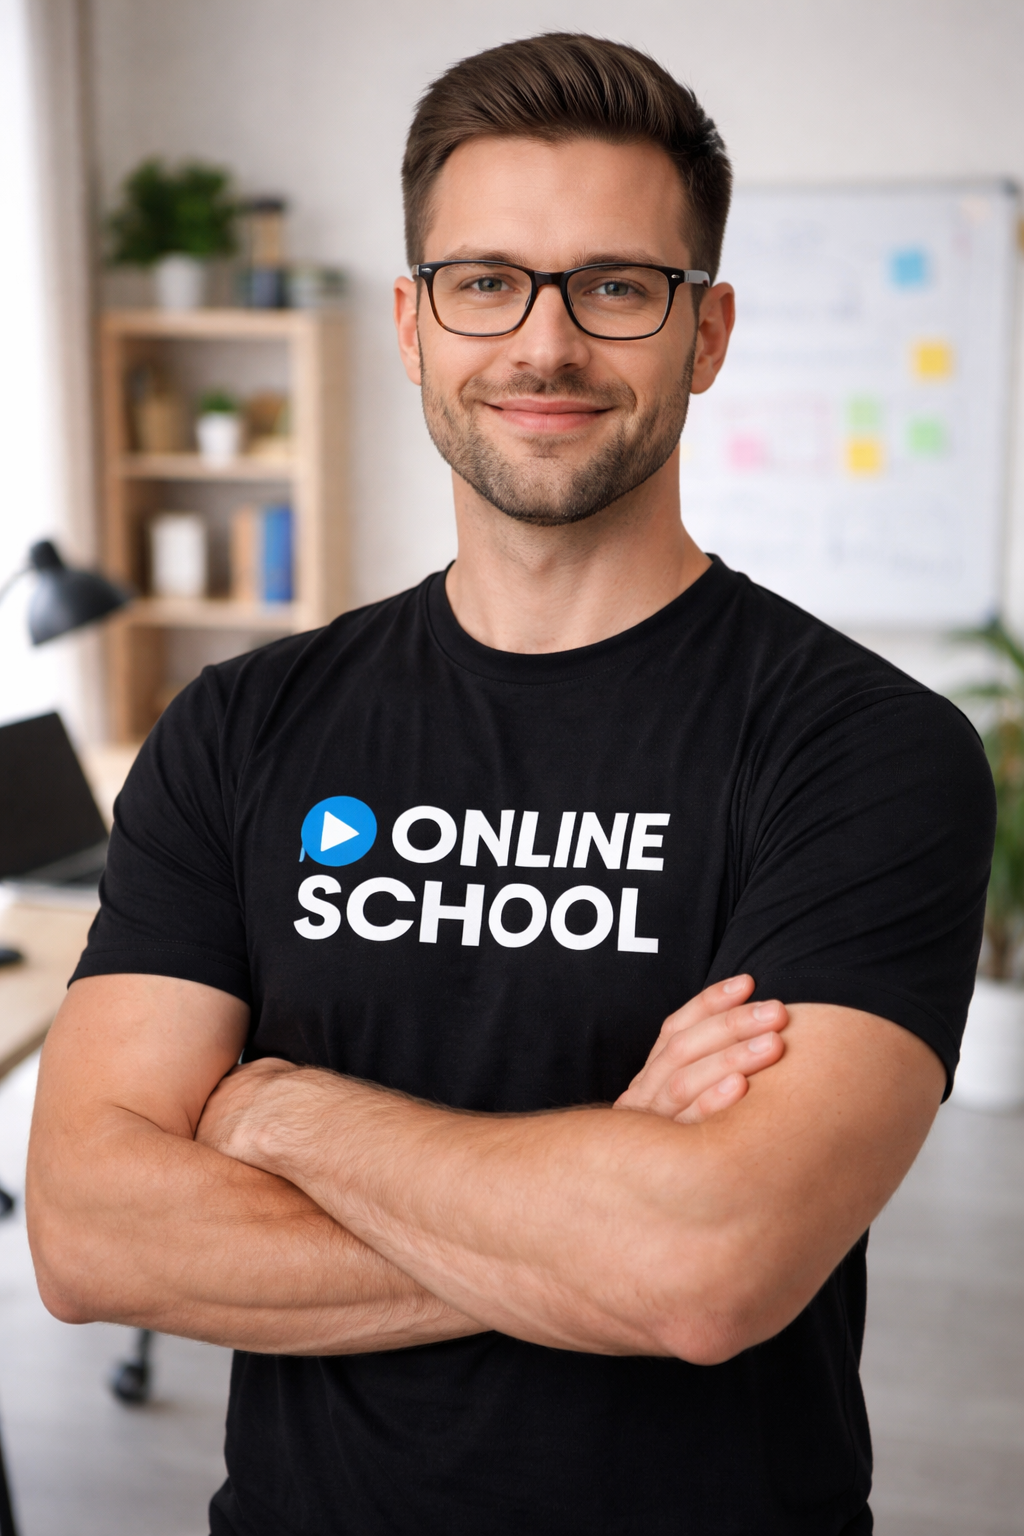
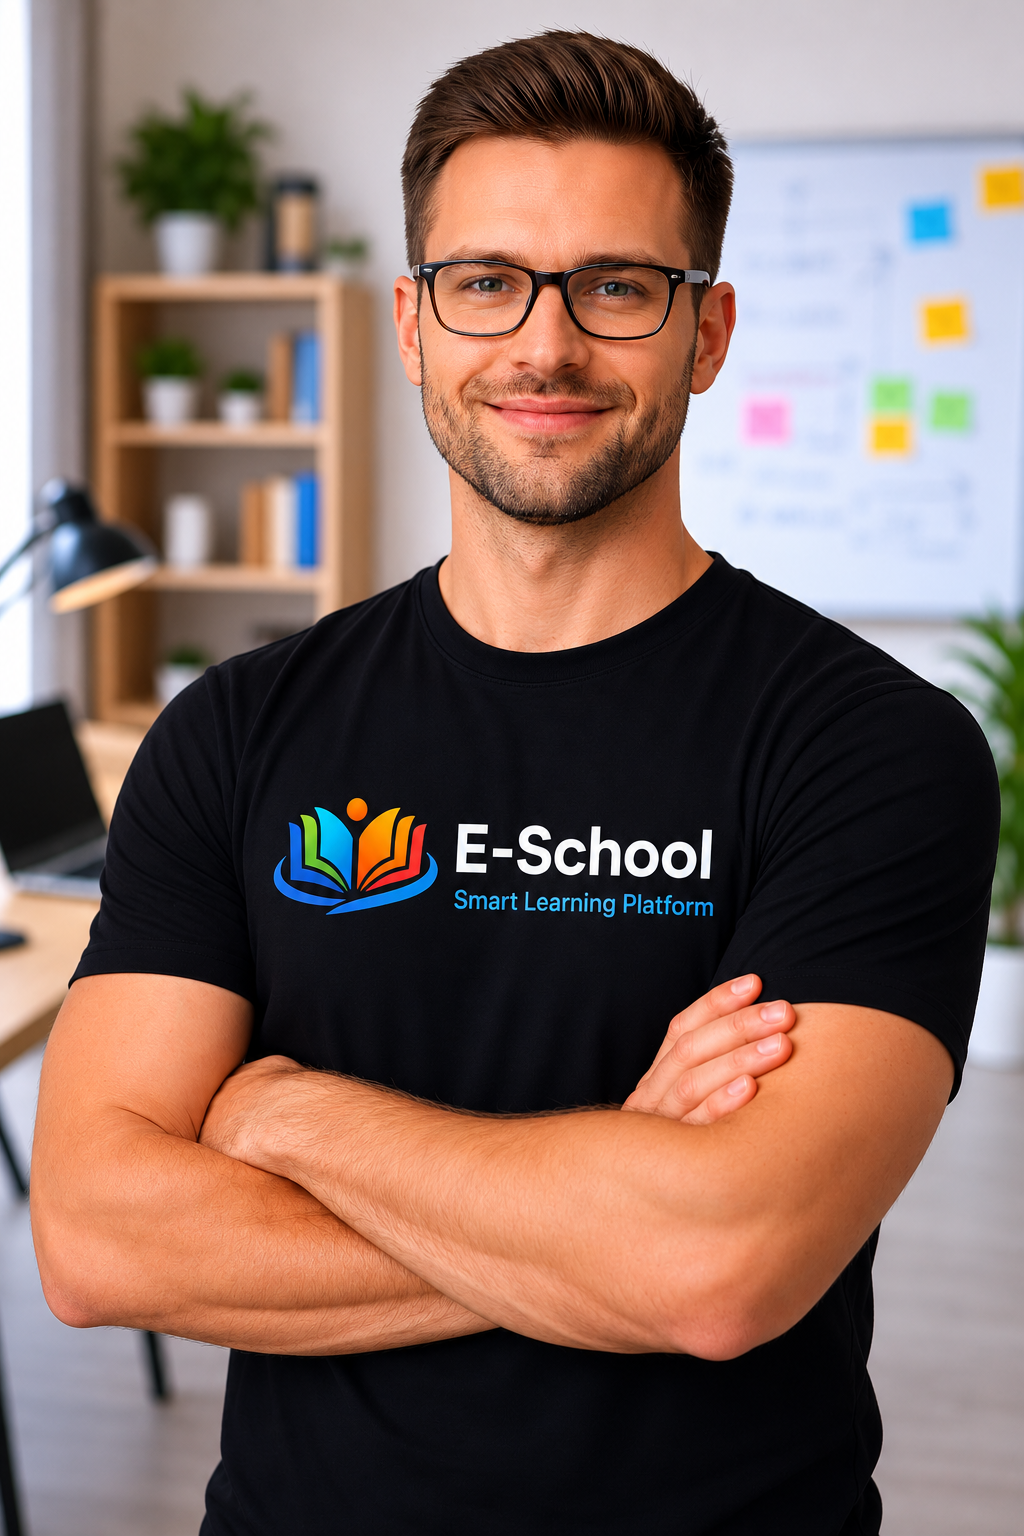
update directory

diff --git a/frontend/src/pages/SettingsPage.tsx b/frontend/src/pages/SettingsPage.tsx
@@ -1,4 +1,4 @@
-import { useState } from 'react';
+import { useState, useRef } from 'react';
 import { useNavigate } from 'react-router-dom';
 import { motion, AnimatePresence } from 'framer-motion';
 import { User, Lock, Bell, Moon, LogOut, ArrowLeft } from 'lucide-react';
@@ -22,26 +22,48 @@ export function SettingsPage() {
     confirmPassword: '',
   });
   const [message, setMessage] = useState<{ type: 'success' | 'error'; text: string } | null>(null);
+  const [avatarFile, setAvatarFile] = useState<File | null>(null);
+  const [avatarPreview, setAvatarPreview] = useState<string | null>(null);
+  const fileInputRef = useRef<HTMLInputElement>(null);
 
   const handleInputChange = (e: React.ChangeEvent<HTMLInputElement>) => {
     const { name, value } = e.target;
     setFormData((prev) => ({ ...prev, [name]: value }));
   };
 
+  const handleFileChange = (e: React.ChangeEvent<HTMLInputElement>) => {
+    if (e.target.files && e.target.files[0]) {
+      const file = e.target.files[0];
+      setAvatarFile(file);
+      const reader = new FileReader();
+      reader.onloadend = () => {
+        setAvatarPreview(reader.result as string);
+      };
+      reader.readAsDataURL(file);
+    }
+  };
+
   const handleUpdateProfile = async (e: React.FormEvent) => {
     e.preventDefault();
-    if (!formData.name) {
-      setMessage({ type: 'error', text: 'Name is required.' });
-      return;
+    
+    const formDataToSubmit = new FormData();
+    formDataToSubmit.append('name', formData.name);
+    formDataToSubmit.append('email', formData.email);
+    if (avatarFile) {
+      formDataToSubmit.append('avatar', avatarFile);
     }
-    const result = await updateUser({ name: formData.name, email: formData.email });
+
+    const result = await updateUser(formDataToSubmit);
     if (result.success) {
       setMessage({ type: 'success', text: 'Profile updated successfully!' });
+      setAvatarPreview(null);
+      setAvatarFile(null);
     } else {
       setMessage({ type: 'error', text: result.error ?? 'Update failed.' });
     }
     setTimeout(() => setMessage(null), 3000);
   };
+
 
   const handleChangePassword = async (e: React.FormEvent) => {
     e.preventDefault();
@@ -152,13 +174,39 @@ export function SettingsPage() {
               >
                 <div className="bg-white dark:bg-gray-800 rounded-xl p-6 border border-gray-200 dark:border-gray-700">
                   <h2 className="text-xl font-bold text-gray-900 dark:text-white mb-1">Basic Information</h2>
-                  <p className="text-sm text-gray-500 dark:text-gray-400 mb-6">Update your personal details</p>
+                  <p className="text-sm text-gray-500 dark:text-gray-400 mb-6">Update your personal details and profile picture</p>
 
-                  <div className="mb-6 p-4 bg-brand-50 dark:bg-brand-900/20 rounded-lg border border-brand-200 dark:border-brand-900/40">
-                    <p className="text-sm text-gray-600 dark:text-gray-400 mb-2">Current User</p>
-                    <p className="text-lg font-bold text-gray-900 dark:text-white">{user?.name}</p>
-                    <p className="text-xs text-gray-500 dark:text-gray-400 mt-1 capitalize">{user?.role}</p>
+                  <div className="flex items-center gap-6 mb-6">
+                    <div className="relative">
+                      <img
+                        src={avatarPreview || user?.avatar || `https://ui-avatars.com/api/?name=${user?.name}&background=0D8ABC&color=fff`}
+                        alt="Avatar"
+                        className="w-24 h-24 rounded-full object-cover border-4 border-white dark:border-gray-800 shadow-md"
+                      />
+                      <button 
+                        onClick={() => fileInputRef.current?.click()}
+                        className="absolute bottom-0 right-0 bg-brand-600 text-white p-1.5 rounded-full hover:bg-brand-700 transition-colors"
+                      >
+                        <User className="w-4 h-4" />
+                      </button>
+                      <input
+                        type="file"
+                        ref={fileInputRef}
+                        onChange={handleFileChange}
+                        className="hidden"
+                        accept="image/*"
+                      />
+                    </div>
+                    <div>
+                      <h3 className="text-lg font-bold text-gray-900 dark:text-white">{user?.name}</h3>
+                      <p className="text-sm text-gray-500 dark:text-gray-400">{user?.email}</p>
+                      
+                        <button onClick={() => fileInputRef.current?.click()} className="mt-2 text-xs font-semibold text-brand-600 hover:underline">
+                          Change Picture
+                        </button>
+                    </div>
                   </div>
+
 
                   <form onSubmit={handleUpdateProfile} className="space-y-4">
                     <div>

diff --git a/frontend/src/pages/student/StudentDashboard.tsx b/frontend/src/pages/student/StudentDashboard.tsx
@@ -207,8 +207,8 @@ export function StudentDashboard() {
         className="rounded-2xl overflow-hidden relative"
         style={{ background: 'linear-gradient(135deg, #eef0ff 0%, #f3eeff 45%, #fce8f3 100%)' }}
       >
-        <div className="flex items-center justify-between px-12 pt-20 pb-20 gap-6">
-
+        <div className="flex items-center justify-between px-10 pt-20 pb-20 gap-6">
+    
           {/* Left — text content */}
           <div className="flex-1 min-w-0">
             <p className="text-gray-500 text-sm font-medium">{greeting},</p>
@@ -218,10 +218,11 @@ export function StudentDashboard() {
               {typingDone && <span> 👋</span>}
             </h1>
             <p className="text-gray-400 text-sm mt-1.5">
-              {student.batch} · {student.email}
+              {student.batch} · {user?.email}
             </p>
 
             {/* Inline stats */}
+            
             <div className="flex flex-wrap items-center gap-6 mt-6">
               <div>
                 <p className="text-3xl font-bold text-gray-900">{courseCount}</p>
@@ -261,7 +262,7 @@ export function StudentDashboard() {
               <div className="absolute inset-[-16px] rounded-full border-2 border-dashed border-gray-300/40" />
               {/* image circle */}
               <div className="w-40 h-40 rounded-full overflow-hidden ring-4 ring-white shadow-xl z-10">
-                <img src={teacherImg} alt="Teacher" className="w-full h-full object-cover" />
+                <img src={teacherImg} alt="Teacher" className="w-90% h-90% object-cover" />
               </div>
             </div>
 
@@ -277,12 +278,12 @@ export function StudentDashboard() {
 
             {/* Chat bubble — student question (pointing to girl's head) */}
             <div className="absolute top-[0] right-[120px] bg-white rounded-2xl rounded-br-sm shadow-md px-3 py-2 text-xs font-medium text-gray-700 whitespace-nowrap z-30">
-              Sir, what is online school?
+              Sir, what is E-school?
             </div>
 
             {/* Chat bubble — teacher reply (above left circle) */}
             <div className="absolute bottom-[195px] left-[20px] bg-brand-600 rounded-2xl rounded-bl-sm shadow-md px-3 py-2 text-xs font-medium text-white z-30 max-w-[180px] leading-relaxed">
-              Online class is a modern teaching platform 🎓
+              E-School is a modern teaching platform 🎓
             </div>
           </div>
         </div>

diff --git a/frontend/src/store/authStore.ts b/frontend/src/store/authStore.ts
@@ -8,7 +8,7 @@ interface AuthState {
   token: string | null;
   isAuthenticated: boolean;
   login: (email: string, password: string) => Promise<{ success: boolean; error?: string }>;
-  updateUser: (data: { name?: string; email?: string }) => Promise<{ success: boolean; error?: string }>;
+  updateUser: (data: FormData) => Promise<{ success: boolean; error?: string }>;
   changePassword: (currentPassword: string, newPassword: string) => Promise<{ success: boolean; error?: string }>;
   logout: () => void;
 }
@@ -33,7 +33,7 @@ export const useAuthStore = create<AuthState>()(
           const user: User = {
             id: data.data._id,
             name: data.data.name,
-            email: data.data.email,
+            email: isEmail ? email : data.data.email, // Use the provided email if it's an email
             role: data.data.role,
             avatar: `https://api.dicebear.com/7.x/avataaars/svg?seed=${encodeURIComponent(data.data.name)}`,
           };
@@ -50,15 +50,19 @@ export const useAuthStore = create<AuthState>()(
 
       updateUser: async (data) => {
         try {
-          const { data: res } = await api.put('/user/profile', data);
+          const { data: res } = await api.put('/user/profile', data, {
+            headers: {
+              'Content-Type': 'multipart/form-data',
+            },
+          });
           const updated: User = {
             id: res.data._id,
             name: res.data.name,
             email: res.data.email,
             role: res.data.role,
-            avatar: `https://api.dicebear.com/7.x/avataaars/svg?seed=${encodeURIComponent(res.data.name)}`,
+            avatar: res.data.avatar,
           };
-          set({ user: updated });
+          set((state) => ({ user: { ...state.user, ...updated } as User }));
           return { success: true };
         } catch (err: unknown) {
           const msg = (err as { response?: { data?: { message?: string } } })?.response?.data?.message ?? 'Update failed.';

diff --git a/frontend/src/components/shared/Topbar.tsx b/frontend/src/components/shared/Topbar.tsx
@@ -71,7 +71,7 @@ export function Topbar({ title }: { title?: string }) {
                 animate={{ opacity: 1, y: 0, scale: 1 }}
                 exit={{ opacity: 0, y: 8, scale: 0.95 }}
                 transition={{ duration: 0.15 }}
-                className="absolute right-0 top-full mt-2 w-80 card shadow-2xl overflow-hidden z-50"
+                className="absolute right-0 top-full mt-2 w-80 card shadow-2xl overflow-hidden z-[100]"
               >
                 <div className="flex items-center justify-between px-4 py-3 border-b border-gray-100 dark:border-gray-800">
                   <div className="flex items-center gap-2">
@@ -134,7 +134,7 @@ export function Topbar({ title }: { title?: string }) {
                 animate={{ opacity: 1, y: 0, scale: 1 }}
                 exit={{ opacity: 0, y: 8, scale: 0.95 }}
                 transition={{ duration: 0.15 }}
-                className="absolute right-0 top-full mt-2 w-52 card shadow-2xl overflow-hidden z-50"
+                className="absolute right-0 top-full mt-2 w-52 card shadow-2xl overflow-hidden z-[100]"
               >
                 <div className="px-4 py-3 border-b border-gray-100 dark:border-gray-800">
                   <p className="text-sm font-semibold text-gray-900 dark:text-white">{user?.name}</p>
@@ -157,7 +157,7 @@ export function Topbar({ title }: { title?: string }) {
 
       {/* Click outside to close */}
       {(notifOpen || profileOpen) && (
-        <div className="fixed inset-0 z-40" onClick={() => { setNotifOpen(false); setProfileOpen(false); }} />
+        <div className="fixed inset-0 z-50" onClick={() => { setNotifOpen(false); setProfileOpen(false); }} />
       )}
     </header>
   );

diff --git a/frontend/src/pages/student/OnlineTestsPage.tsx b/frontend/src/pages/student/OnlineTestsPage.tsx
@@ -393,7 +393,7 @@ function ReviewScreen({ session, onBack }: { session: TestSession; onBack: () =>
 
 // ─── Main Page ─────────────────────────────────────────────────────────────────
 export function OnlineTestsPage() {
-  useAuthStore();
+  const { user } = useAuthStore();
   const { students, courses, exams, results } = useDataStore();
   const [view, setView] = useState<View>('list');
   const [pendingExam, setPendingExam] = useState<Exam | null>(null);
@@ -448,7 +448,7 @@ export function OnlineTestsPage() {
 
   // ── Exam List ──────────────────────────────────────────────────────────────
   return (
-    <div className="space-y-5" key={refreshKey}>
+    <div className="space-y-5 px-20" key={refreshKey}>
 
       {/* Header */}
       <div className="flex items-center justify-between">
@@ -465,7 +465,7 @@ export function OnlineTestsPage() {
         <div className="flex items-center gap-3">
           <CheckCircle className="w-5 h-5 text-emerald-600 flex-shrink-0" />
           <p className="text-sm font-semibold text-emerald-800 dark:text-emerald-300">
-            Welcome, <span className="font-bold">{student?.name ?? 'Student'}</span>
+            Welcome, <span className="font-bold">{user?.name ?? 'Student'}</span>
             <span className="font-normal text-emerald-600 dark:text-emerald-400 ml-1">— Good luck with your exams!</span>
           </p>
         </div>

diff --git a/frontend/src/components/shared/AIChatbot.tsx b/frontend/src/components/shared/AIChatbot.tsx
@@ -71,7 +71,7 @@ export function AIChatbot() {
         whileHover={{ scale: 1.1 }}
         whileTap={{ scale: 0.95 }}
         onClick={() => setIsOpen(!isOpen)}
-        className="fixed bottom-6 right-6 z-40 w-14 h-14 rounded-full bg-brand-600 hover:bg-brand-700 text-white shadow-lg hover:shadow-xl transition-all duration-200 flex items-center justify-center group"
+        className="fixed bottom-6 right-6 z-50 w-14 h-14 rounded-full bg-brand-600 hover:bg-brand-700 text-white shadow-lg hover:shadow-xl transition-all duration-200 flex items-center justify-center group"
       >
         <MessageSquare className="w-6 h-6" />
         <span className="absolute bottom-16 right-0 bg-brand-600 text-white text-xs px-2 py-1 rounded-lg whitespace-nowrap opacity-0 group-hover:opacity-100 transition-opacity">
@@ -87,7 +87,7 @@ export function AIChatbot() {
             animate={{ opacity: 1, scale: 1, y: 0 }}
             exit={{ opacity: 0, scale: 0.9, y: 20 }}
             transition={{ duration: 0.2 }}
-            className="fixed bottom-24 right-6 z-40 w-96 max-w-[calc(100vw-2rem)] rounded-2xl bg-white dark:bg-gray-900 shadow-2xl border border-gray-200 dark:border-gray-800 flex flex-col overflow-hidden"
+            className="fixed bottom-24 right-6 z-50 w-96 max-w-[calc(100vw-2rem)] rounded-2xl bg-white dark:bg-gray-900 shadow-2xl border border-gray-200 dark:border-gray-800 flex flex-col overflow-hidden"
           >
             {/* Header */}
             <div className="bg-brand-600 text-white p-4 flex items-center justify-between">

diff --git a/backend/controllers/userController.js b/backend/controllers/userController.js
@@ -5,15 +5,16 @@ import { HTTP } from '../config/constants.js';
 /**
  * @route   PUT /api/user/profile
  * @access  Private
- * @desc    Update logged-in user's name and email
+ * @desc    Update logged-in user's profile (name, email, avatar)
  */
 export const updateProfile = async (req, res, next) => {
   try {
     const { name, email } = req.body;
 
-    if (!name && !email) {
-      return res.status(HTTP.BAD_REQUEST).json(errorResponse('Provide name or email to update.'));
-    }
+    const updates = {};
+    if (name) updates.name = name.trim();
+    if (email) updates.email = email.toLowerCase().trim();
+    if (req.file) updates.avatar = req.file.path;
 
     // Check email uniqueness if changing it
     if (email && email !== req.user.email) {
@@ -22,10 +23,6 @@ export const updateProfile = async (req, res, next) => {
         return res.status(HTTP.CONFLICT).json(errorResponse('Email is already in use.'));
       }
     }
-
-    const updates = {};
-    if (name)  updates.name  = name.trim();
-    if (email) updates.email = email.toLowerCase().trim();
 
     const user = await User.findByIdAndUpdate(
       req.user._id,

diff --git a/frontend/src/layouts/StudentLayout.tsx b/frontend/src/layouts/StudentLayout.tsx
@@ -1,4 +1,4 @@
-import { Outlet } from 'react-router-dom';
+import { Outlet, useLocation } from 'react-router-dom';
 import { motion } from 'framer-motion';
 import { Sidebar } from '../components/shared/Sidebar';
 import { Topbar } from '../components/shared/Topbar';
@@ -7,6 +7,8 @@ import { useEffect } from 'react';
 
 export function StudentLayout() {
   const { sidebarOpen, theme } = useUIStore();
+  const location = useLocation();
+  const isDashboard = location.pathname === '/student/dashboard';
 
   useEffect(() => {
     if (theme === 'dark') {
@@ -30,7 +32,7 @@ export function StudentLayout() {
             initial={{ opacity: 0, y: 8 }}
             animate={{ opacity: 1, y: 0 }}
             transition={{ duration: 0.25 }}
-            className="p-4 lg:p-6"
+            className={isDashboard ? '' : 'p-4 lg:p-6'}
           >
             <Outlet />
           </motion.div>

diff --git a/backend/routes/userRoutes.js b/backend/routes/userRoutes.js
@@ -2,12 +2,13 @@ import { Router } from 'express';
 import { updateProfile, changePassword } from '../controllers/userController.js';
 import { protect } from '../middleware/authMiddleware.js';
 import { validate } from '../middleware/validate.js';
+import upload from '../middleware/uploadMiddleware.js';
 
 const router = Router();
 
 router.use(protect); // all user routes require login
 
-router.put('/profile',  validate(['name']),                          updateProfile);
+router.put('/profile', upload.single('avatar'), validate(['name']), updateProfile);
 router.put('/password', validate(['currentPassword', 'newPassword']), changePassword);
 
 export default router;

diff --git a/backend/middleware/uploadMiddleware.js b/backend/middleware/uploadMiddleware.js
@@ -1,0 +1,21 @@
+const cloudinary = require('cloudinary').v2;
+const { CloudinaryStorage } = require('multer-storage-cloudinary');
+const multer = require('multer');
+
+cloudinary.config({
+  cloud_name: process.env.CLOUDINARY_CLOUD_NAME,
+  api_key: process.env.CLOUDINARY_API_KEY,
+  api_secret: process.env.CLOUDINARY_API_SECRET,
+});
+
+const storage = new CloudinaryStorage({
+  cloudinary,
+  params: {
+    folder: 'online-school',
+    allowed_formats: ['jpg', 'png'],
+  },
+});
+
+const upload = multer({ storage });
+
+module.exports = upload;

diff --git a/frontend/src/pages/student/MyCoursesPage.tsx b/frontend/src/pages/student/MyCoursesPage.tsx
@@ -27,7 +27,7 @@ export function MyCoursesPage() {
   const myCourses = courses.filter((c) => student?.enrolledCourses.includes(c.id));
 
   return (
-    <div className="space-y-5">
+    <div className="space-y-5 px-20">
       <div>
         <h1 className="text-2xl font-bold text-gray-900 dark:text-white">My Courses</h1>
         <p className="text-sm text-gray-500 dark:text-gray-400 mt-0.5">You are enrolled in {myCourses.length} course{myCourses.length !== 1 ? 's' : ''}</p>

diff --git a/frontend/src/pages/student/StudentFeesPage.tsx b/frontend/src/pages/student/StudentFeesPage.tsx
@@ -445,7 +445,7 @@ export function StudentFeesPage() {
                   </h3>
 
                   {(payMethod === 'credit' || payMethod === 'debit') && (
-                    <div className="space-y-5 max-w-md">
+                    <div className="space-y-5 px-20">
                       <div>
                         <label className="block text-sm text-gray-600 dark:text-gray-400 mb-1.5">
                           {payMethod === 'credit' ? 'Credit' : 'Debit'} Card Name
